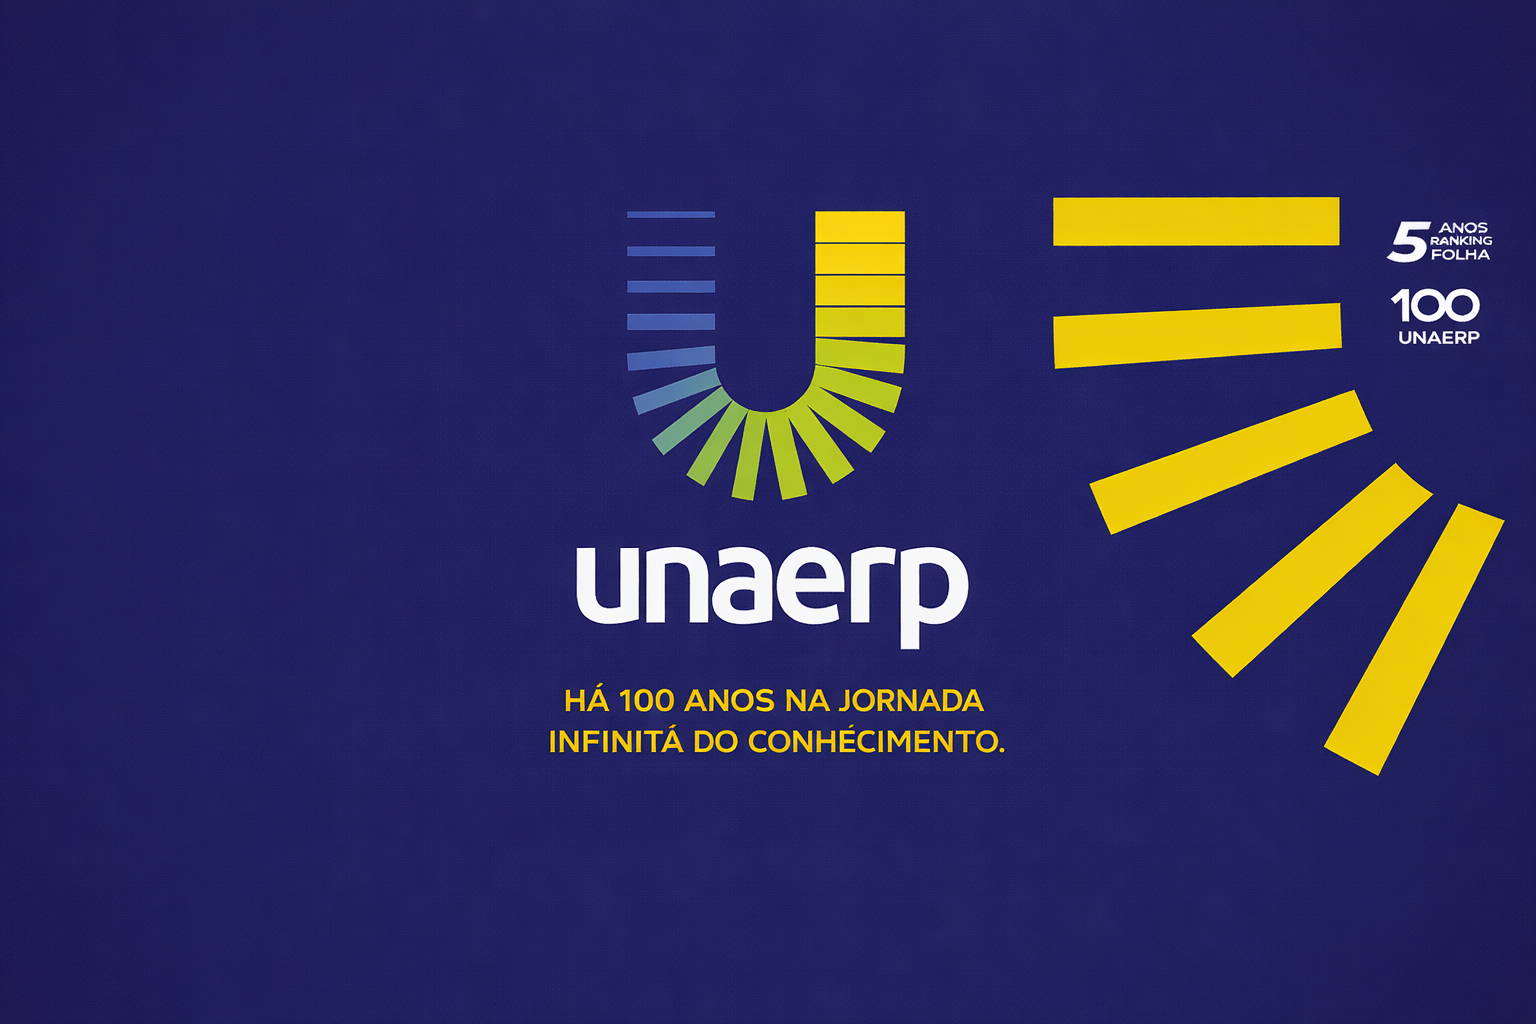
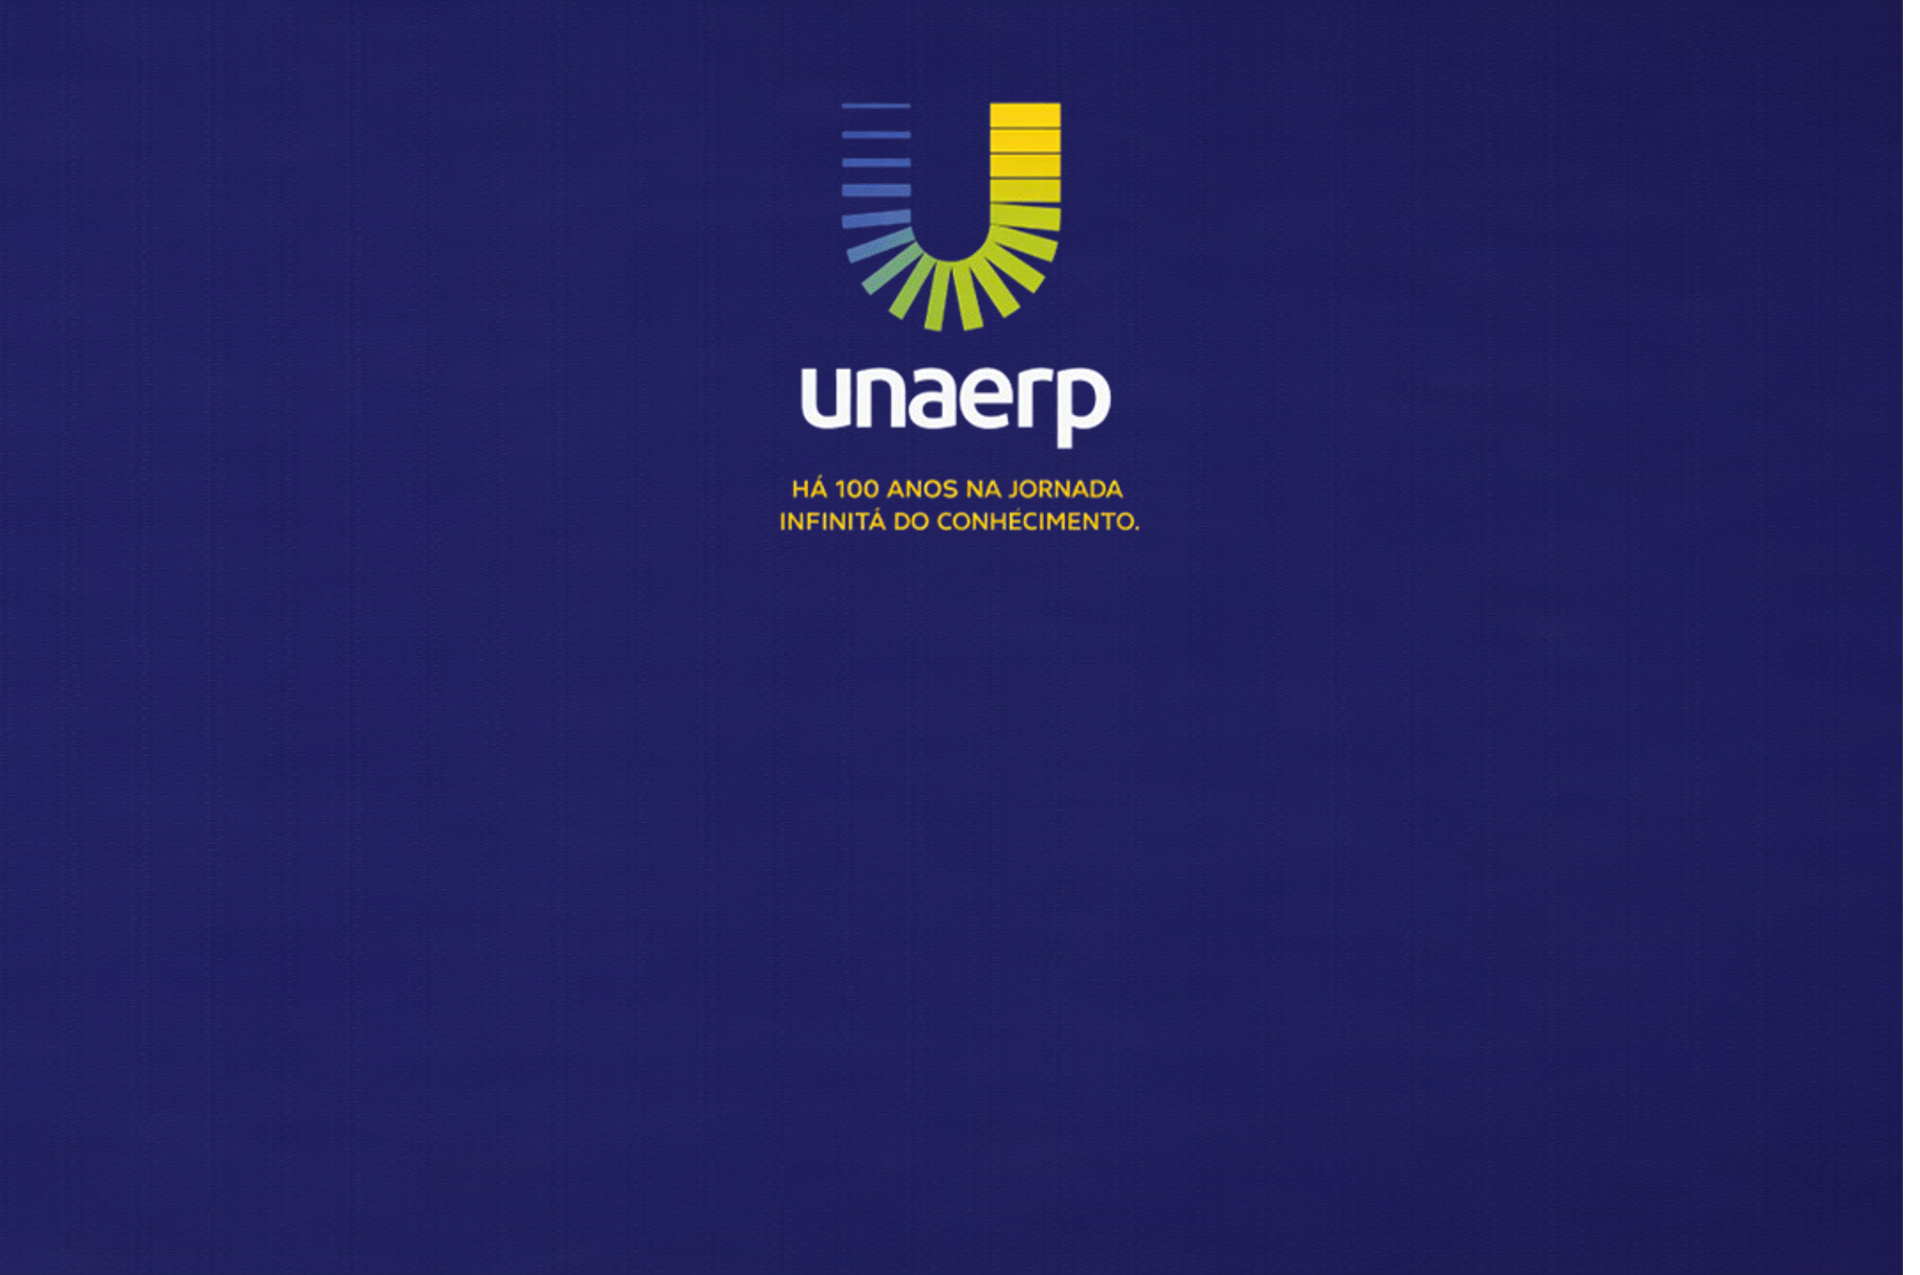
Changes

diff --git a/src/routes/index.tsx b/src/routes/index.tsx
@@ -66,19 +66,10 @@ function WelcomeScreen() {
           </span>
         </motion.div>
 
-        <motion.p
-          initial={{ opacity: 0 }}
-          animate={{ opacity: 1 }}
-          transition={{ delay: 1.1 }}
-          className="text-white/60 text-sm mb-8 leading-relaxed"
-        >
-          Acompanhe sua gestação com vídeos educativos, atendimento por videochamada e prontuário digital.
-        </motion.p>
-
         <motion.button
           initial={{ opacity: 0, y: 20 }}
           animate={{ opacity: 1, y: 0 }}
-          transition={{ delay: 1.3 }}
+          transition={{ delay: 1.1 }}
           whileHover={{ scale: 1.05 }}
           whileTap={{ scale: 0.95 }}
           onClick={() => navigate({ to: "/home" })}
@@ -87,15 +78,6 @@ function WelcomeScreen() {
           Entrar →
         </motion.button>
       </motion.div>
-
-      <motion.p
-        initial={{ opacity: 0 }}
-        animate={{ opacity: 1 }}
-        transition={{ delay: 1.5 }}
-        className="absolute bottom-6 text-white/40 text-xs z-10"
-      >
-        UNAERP — Há 100 anos na jornada do conhecimento
-      </motion.p>
     </div>
   );
 }
